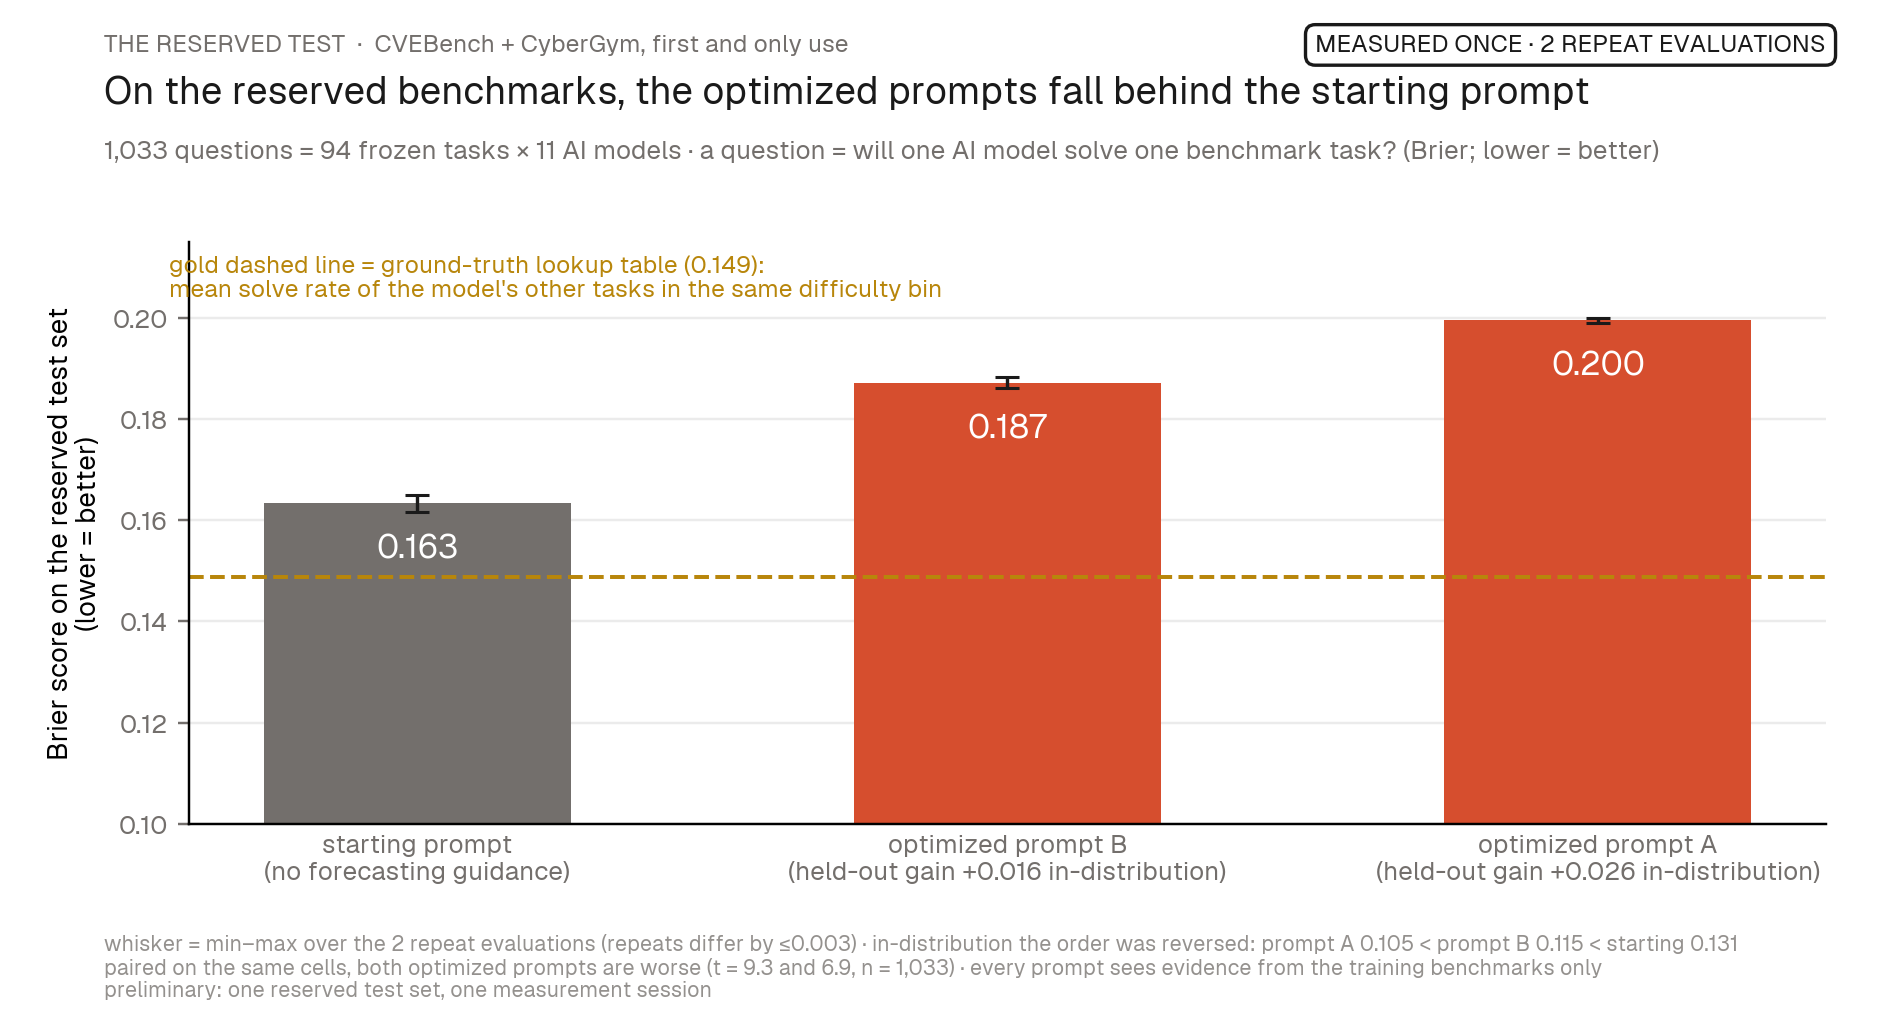
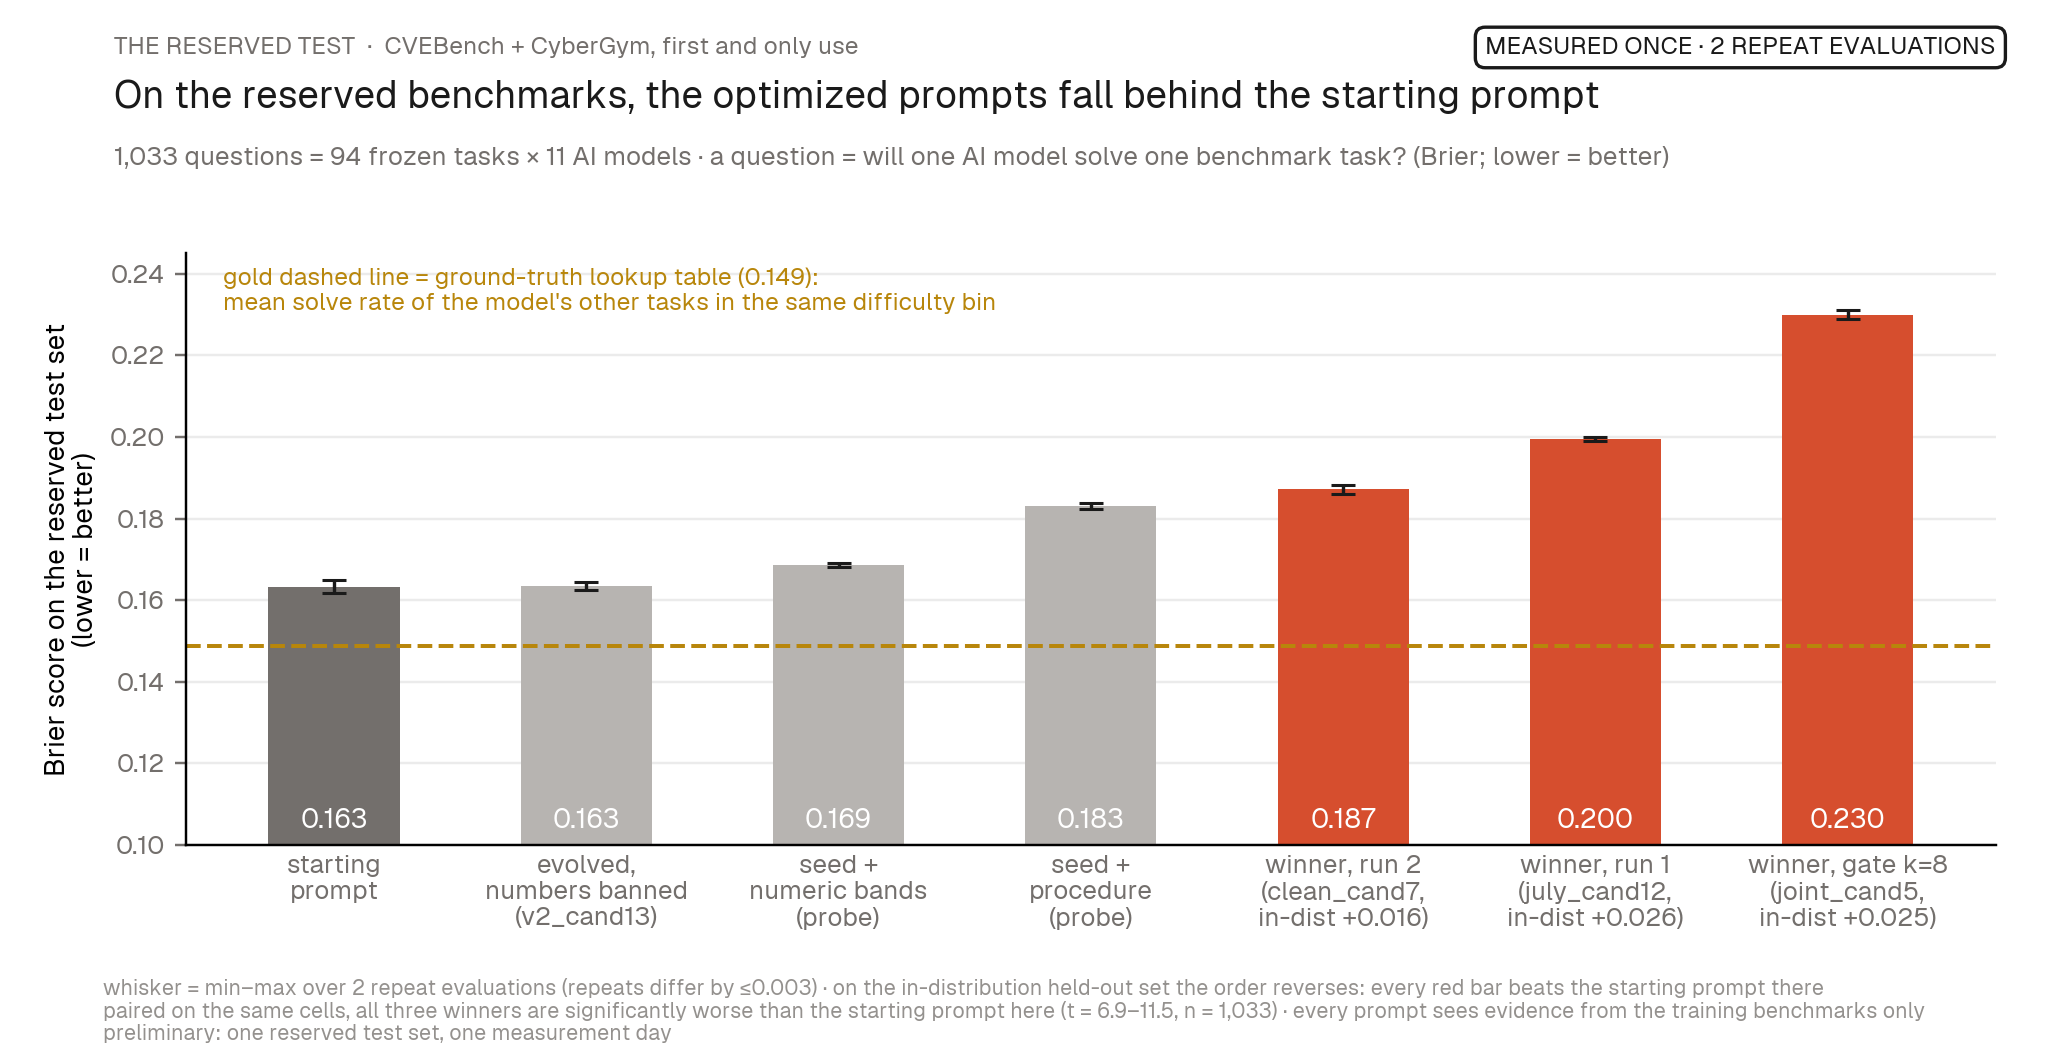
fig17 all seven test arms; fig18 every run's prompts on the sealed axis
fig17: seed/v2/probes/three winners ascending on the reserved test with
the GT table line. fig18: ten measured prompts grouped by producing run
(native 1-2, gate k=8, model_bin) on the same 230 sealed questions,
seed and GT table for reference.

diff --git a/intra_benchmark_calibration/experiments/III_gepa_optimization/summary/make_fig18.py b/intra_benchmark_calibration/experiments/III_gepa_optimization/summary/make_fig18.py
@@ -1,0 +1,100 @@
+#!/usr/bin/env python3
+"""fig18: every search run's measured prompts on one axis — held-out (sealed)
+Brier, temp-0 multi-pass, with the seed and the ground-truth table.
+
+Bars = mean over that prompt's sealed evaluation passes (each pass = the
+same 230 held-out questions from the training benchmarks); whisker =
+min-max over passes. Data: the temp-0 noise-study cell logs in the gepa
+repo (committed on the results/* branches).
+"""
+import json
+import os
+import statistics
+from collections import defaultdict
+from pathlib import Path
+
+import matplotlib
+matplotlib.use("Agg")
+import matplotlib.pyplot as plt
+
+INK = "#1a1a1a"; MUTED = "#736f6c"; SOFT = "#94918e"; HAIR = "#ebebeb"
+GREEN = "#034f46"; GOLD = "#b8860b"
+plt.rcParams.update({"font.family": "Geist", "figure.facecolor": "white",
+                     "savefig.facecolor": "white"})
+
+GEPA = Path(os.environ.get("GEPA_DIR", Path(__file__).resolve().parents[4].parent / "gepa"))
+FILES = ["noise_cells_temp0.jsonl", "noise_cells_temp0_confirm.jsonl",
+         "noise_cells_clean_rerun.jsonl", "noise_cells_feature_ablation.jsonl",
+         "noise_cells_accept_joint.jsonl", "noise_cells_pareto_modelbin.jsonl"]
+
+per = defaultdict(list)  # prompt -> [pass means]
+for i, f in enumerate(FILES):
+    d = defaultdict(lambda: defaultdict(list))
+    path = GEPA / "runs/noise_study" / f
+    if not path.exists():
+        continue
+    for l in path.open():
+        r = json.loads(l)
+        if r["set"] != "sealed":
+            continue
+        d[(i, r["repeat"])][r["prompt"]].append(r["brier"] if r["brier"] is not None else 1.0)
+    for _key, dd in d.items():
+        for p, v in dd.items():
+            per[p].append(statistics.mean(v))
+
+TABLE = 0.1034  # ground-truth LOO bin-mean table on the same 230 held-out questions
+
+bars = [  # (key, label line 1 = prompt, line 2 = which search run produced it)
+    ("seed",            "starting\nprompt",        MUTED),
+    ("july_cand12",     "cand 12\nrun 1 · native", GREEN),
+    ("july_cand20",     "cand 20\nrun 1 · native", GREEN),
+    ("july_cand15",     "cand 15\nrun 1 · native", GREEN),
+    ("clean_cand7",     "cand 7\nrun 2 · native",  GREEN),
+    ("clean_winner",    "cand 3\nrun 2 · native",  GREEN),
+    ("joint_cand5",     "cand 5\ngate k = 8",      GREEN),
+    ("joint_cand16",    "cand 16\ngate k = 8",     GREEN),
+    ("modelbin_cand18", "cand 18\nmodel_bin",      GREEN),
+    ("modelbin_cand10", "cand 10\nmodel_bin",      GREEN),
+]
+
+fig, ax = plt.subplots(figsize=(9.4, 4.6), dpi=220)
+fig.subplots_adjust(top=0.76, bottom=0.16, left=0.09, right=0.965)
+fig.text(0.05, 0.965, "ALL SEARCH RUNS  ·  held-out (sealed) set, training benchmarks, "
+         "230 questions, temperature 0", fontsize=8, color=MUTED, ha="left", va="top")
+fig.text(0.05, 0.925, "Every measured prompt, by the run that produced it",
+         fontsize=12.5, color=INK, ha="left", va="top", fontweight="bold")
+fig.text(0.05, 0.862, "a question = will one AI model solve one benchmark task? "
+         "(Brier; lower = better) · bar = mean over that prompt's evaluation passes, "
+         "whisker = min–max", fontsize=8.5, color=MUTED, ha="left", va="top")
+fig.text(0.965, 0.965, "SAME 230 QUESTIONS FOR EVERY BAR", fontsize=8, color=INK,
+         ha="right", va="top", fontweight="bold",
+         bbox=dict(boxstyle="round,pad=0.4", fc="white", ec=INK, lw=1.1))
+
+for x, (k, label, c) in enumerate(bars):
+    v = per[k]
+    m = statistics.mean(v)
+    ax.bar(x, m, width=0.58, color=c,
+           yerr=[[m - min(v)], [max(v) - m]], capsize=3.5,
+           error_kw={"lw": 1.0, "ecolor": INK})
+    ax.text(x, 0.0915, f"{m:.3f}", ha="center", fontsize=8.5, color="white",
+            fontweight="bold")
+    ax.text(x, max(v) + 0.0012, f"{len(v)}", ha="center", fontsize=7, color=SOFT)
+ax.axhline(TABLE, ls="--", lw=1.3, color=GOLD)
+ax.text(-0.35, 0.1392, f"gold dashed line = ground-truth lookup table ({TABLE:.3f})",
+        fontsize=8, color=GOLD, ha="left", va="top")
+ax.set_xticks(range(len(bars)), [l for _k, l, _c in bars], fontsize=8.5, color=INK)
+ax.set_ylim(0.09, 0.14)
+ax.set_ylabel("held-out Brier score\n(lower = better)", fontsize=9)
+ax.spines["top"].set_visible(False); ax.spines["right"].set_visible(False)
+ax.grid(axis="y", color=HAIR, lw=0.8); ax.set_axisbelow(True)
+ax.tick_params(colors=MUTED, labelsize=8.5); ax.tick_params(axis="x", length=0)
+fig.text(0.05, 0.012,
+         "small number above each whisker = evaluation passes for that prompt · "
+         "runs: native rule (runs 1–2), acceptance gate k = 8 (aggregate_sum_and_min_task_wins), "
+         "model_bin (pareto_instance)\nevery run also proposed ~20 further prompts never "
+         "measured here · lookup table = mean solve rate of the model's other tasks in the "
+         "same difficulty bin (uses ground truth)",
+         fontsize=7, color=SOFT, ha="left", va="bottom")
+fig.savefig("fig18_all_runs_sealed.png")
+print("fig18 written · " + " · ".join(f"{k} {statistics.mean(per[k]):.4f}(n={len(per[k])})"
+                                      for k, _l, _c in bars))

diff --git a/intra_benchmark_calibration/experiments/III_gepa_optimization/summary/make_fig17.py b/intra_benchmark_calibration/experiments/III_gepa_optimization/summary/make_fig17.py
@@ -23,8 +23,10 @@ plt.rcParams.update({"font.family": "Geist", "figure.facecolor": "white",
                      "savefig.facecolor": "white"})
 
 GEPA = Path(os.environ.get("GEPA_DIR", Path(__file__).resolve().parents[4].parent / "gepa"))
-rows = [json.loads(l) for l in (GEPA / "runs/noise_study/noise_cells_test_set.jsonl").open()
-        if '"test"' in l]
+rows = []
+for f in ["noise_cells_test_set.jsonl", "noise_cells_test_ext_winners.jsonl",
+          "noise_cells_test_ext_ablation.jsonl"]:
+    rows += [json.loads(l) for l in (GEPA / "runs/noise_study" / f).open() if '"test"' in l]
 
 per_rep = defaultdict(lambda: defaultdict(list))   # prompt -> repeat -> briers
 outcome, binof = {}, {}
@@ -45,12 +47,17 @@ for (t, m), y in outcome.items():
         gt.append((statistics.mean(others) - y) ** 2)
 TABLE = statistics.mean(gt)
 
-bars = [("seed", "starting prompt\n(no forecasting guidance)", MUTED),
-        ("clean_cand7", "optimized prompt B\n(held-out gain +0.016 in-distribution)", VERM),
-        ("july_cand12", "optimized prompt A\n(held-out gain +0.026 in-distribution)", VERM)]
+SOFTBAR = "#b7b4b1"
+bars = [("seed", "starting\nprompt", MUTED),
+        ("v2_cand13", "evolved,\nnumbers banned\n(v2_cand13)", SOFTBAR),
+        ("ablate_numeric_bands_only", "seed +\nnumeric bands\n(probe)", SOFTBAR),
+        ("ablate_procedure_only", "seed +\nprocedure\n(probe)", SOFTBAR),
+        ("clean_cand7", "winner, run 2\n(clean_cand7,\nin-dist +0.016)", VERM),
+        ("july_cand12", "winner, run 1\n(july_cand12,\nin-dist +0.026)", VERM),
+        ("joint_cand5", "winner, gate k=8\n(joint_cand5,\nin-dist +0.025)", VERM)]
 
-fig, ax = plt.subplots(figsize=(8.6, 4.6), dpi=220)
-fig.subplots_adjust(top=0.76, bottom=0.185, left=0.10, right=0.965)
+fig, ax = plt.subplots(figsize=(9.4, 4.8), dpi=220)
+fig.subplots_adjust(top=0.76, bottom=0.20, left=0.09, right=0.965)
 fig.text(0.055, 0.965, "THE RESERVED TEST  ·  CVEBench + CyberGym, first and only use",
          fontsize=8, color=MUTED, ha="left", va="top")
 fig.text(0.055, 0.925, "On the reserved benchmarks, the optimized prompts fall behind "
@@ -69,24 +76,25 @@ for x, (k, label, c) in enumerate(bars):
     ax.bar(x, m, width=0.52, color=c,
            yerr=[[m - min(reps)], [max(reps) - m]], capsize=4,
            error_kw={"lw": 1.1, "ecolor": INK})
-    ax.text(x, m - 0.006, f"{m:.3f}", ha="center", va="top", fontsize=11,
-            color="white", fontweight="bold")
+    ax.text(x, 0.104, f"{m:.3f}", ha="center", fontsize=9, color="white",
+            fontweight="bold")
 ax.axhline(TABLE, ls="--", lw=1.3, color=GOLD)
-ax.text(-0.42, 0.2125, f"gold dashed line = ground-truth lookup table ({TABLE:.3f}):\n"
+ax.text(-0.44, 0.2415, f"gold dashed line = ground-truth lookup table ({TABLE:.3f}):\n"
         "mean solve rate of the model's other tasks in the same difficulty bin",
         fontsize=8, color=GOLD, ha="left", va="top")
-ax.set_xticks(range(3), [l for _k, l, _c in bars], fontsize=9, color=INK)
-ax.set_ylim(0.10, 0.215)
+ax.set_xticks(range(len(bars)), [l for _k, l, _c in bars], fontsize=8.5, color=INK)
+ax.set_ylim(0.10, 0.245)
 ax.set_ylabel("Brier score on the reserved test set\n(lower = better)", fontsize=9)
 ax.spines["top"].set_visible(False); ax.spines["right"].set_visible(False)
 ax.grid(axis="y", color=HAIR, lw=0.8); ax.set_axisbelow(True)
 ax.tick_params(colors=MUTED, labelsize=8.5); ax.tick_params(axis="x", length=0)
-fig.text(0.055, 0.012,
-         "whisker = min–max over the 2 repeat evaluations (repeats differ by ≤0.003) · "
-         "in-distribution the order was reversed: prompt A 0.105 < prompt B 0.115 < starting 0.131\n"
-         "paired on the same cells, both optimized prompts are worse (t = 9.3 and 6.9, n = 1,033) · "
-         "every prompt sees evidence from the training benchmarks only\n"
-         "preliminary: one reserved test set, one measurement session",
+fig.text(0.05, 0.012,
+         "whisker = min–max over 2 repeat evaluations (repeats differ by ≤0.003) · on the "
+         "in-distribution held-out set the order reverses: every red bar beats the starting "
+         "prompt there\npaired on the same cells, all three winners are significantly worse "
+         "than the starting prompt here (t = 6.9–11.5, n = 1,033) · every prompt sees evidence "
+         "from the training benchmarks only\npreliminary: one reserved test set, one "
+         "measurement day",
          fontsize=7, color=SOFT, ha="left", va="bottom")
 fig.savefig("fig17_test_set.png")
 print(f"fig17 written · table {TABLE:.4f} · " +
